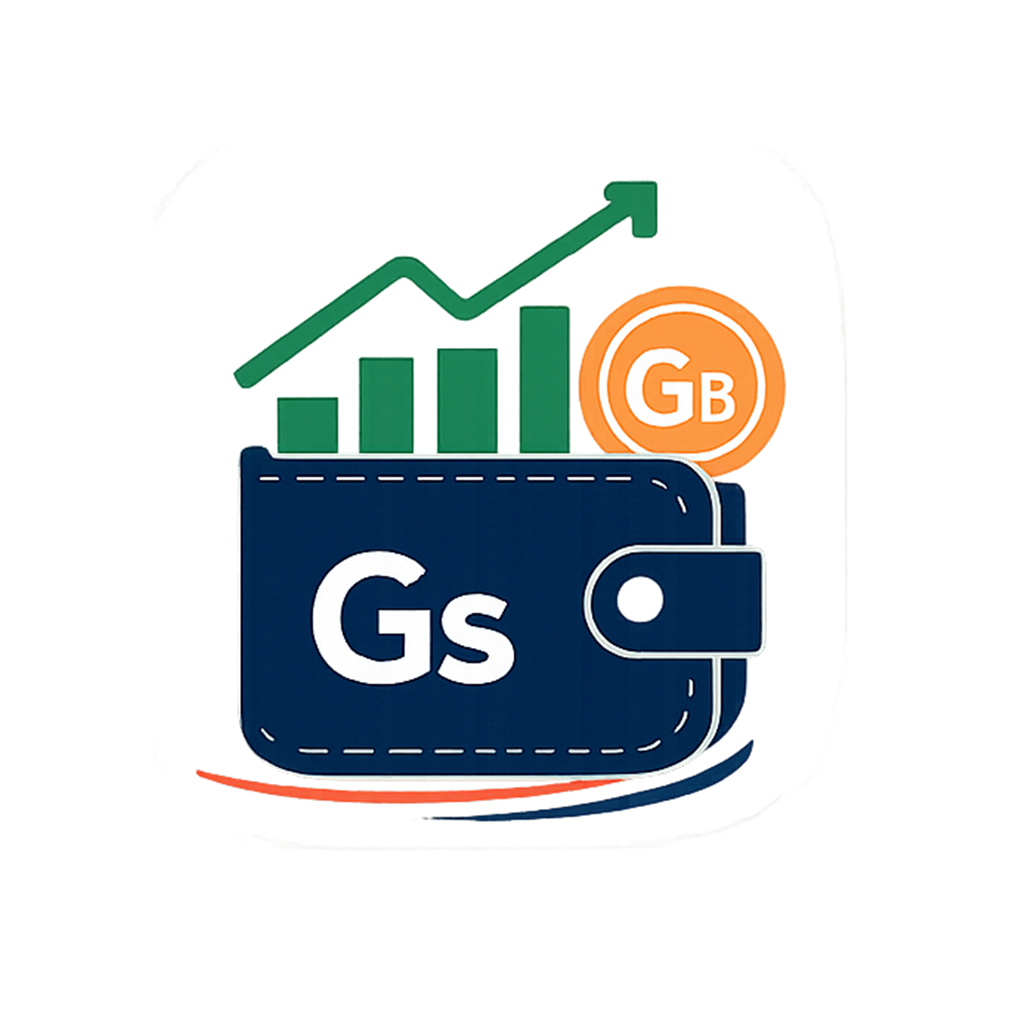
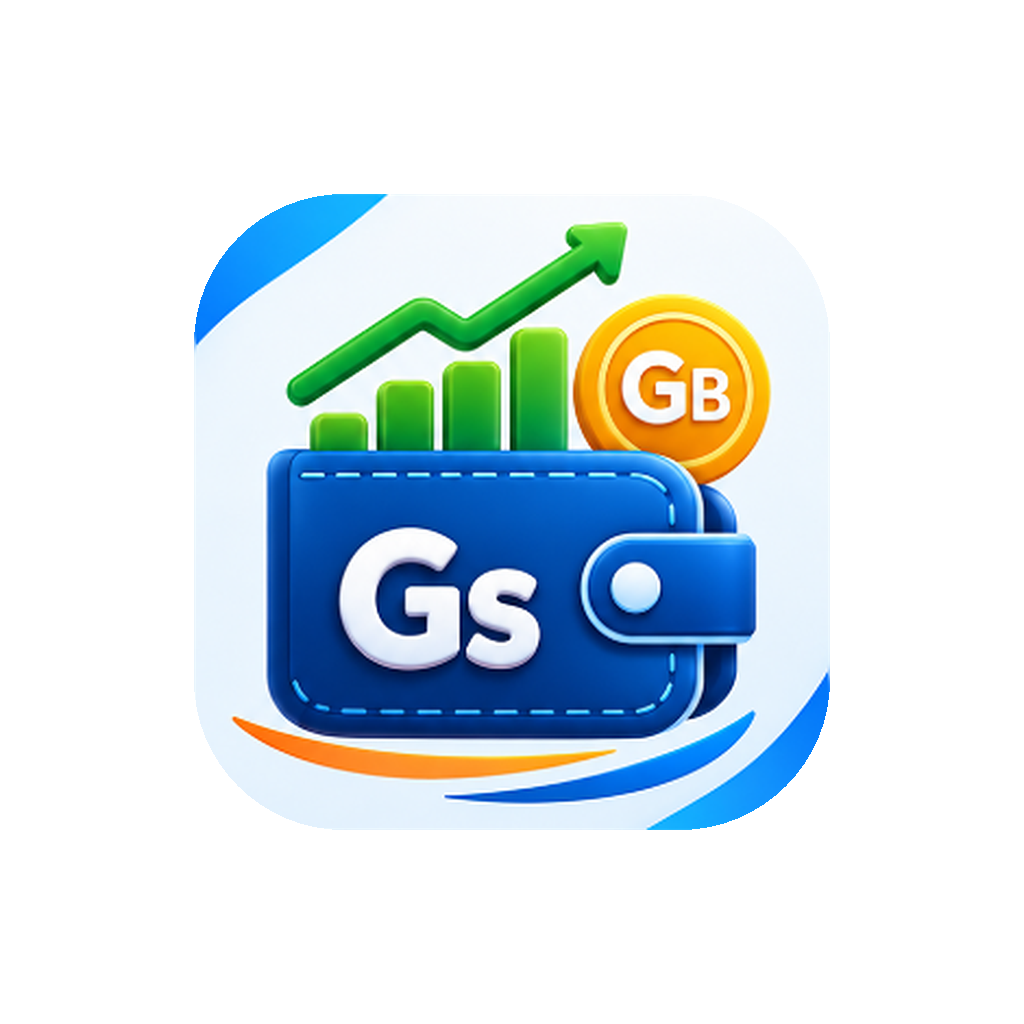
chore(privacidad): cifrado con clave precargada, avisos sin montos y assets
- Precarga la clave de cifrado y migra campos al arrancar.
- Las notificaciones de movimientos ya no exponen descripcion ni monto.
- Splash transparente con variante oscura, iconos y favicon actualizados.

Changed region(s): [[0.1875, 0.1562, 0.8125, 0.8125], [0.1875, 0.1875, 0.375, 0.3438]]

diff --git a/__tests__/encryption.test.ts b/__tests__/encryption.test.ts
@@ -80,4 +80,45 @@ describe('encryption', () => {
     const key = await store.getItemAsync('db_encryption_key');
     expect(key).toMatch(/^[0-9a-f]{64}$/);
   });
+
+  it('precargarClave + encriptarCampo devuelve v2 y roundtrip', async () => {
+    const { precargarClave, encriptarCampo, desencriptarCampo } = await cargar(KEY_A);
+    await precargarClave();
+    const c = encriptarCampo('mensaje sensible del chat');
+    expect(c!.startsWith('v2:')).toBe(true);
+    expect(c).not.toContain('mensaje sensible');
+    expect(desencriptarCampo(c)).toBe('mensaje sensible del chat');
+  });
+
+  it('encriptarCampo(null) y encriptarCampo("") pasan sin cifrar; desencriptarCampo(null) igual', async () => {
+    const { precargarClave, encriptarCampo, desencriptarCampo } = await cargar(KEY_A);
+    await precargarClave();
+    expect(encriptarCampo(null)).toBeNull();
+    expect(encriptarCampo('')).toBe('');
+    expect(desencriptarCampo(null)).toBeNull();
+  });
+
+  it('desencriptarCampo devuelve texto plano legacy (sin v2) tal cual', async () => {
+    const { precargarClave, desencriptarCampo } = await cargar(KEY_A);
+    await precargarClave();
+    expect(desencriptarCampo('texto viejo sin cifrar')).toBe('texto viejo sin cifrar');
+  });
+
+  it('encriptarCampo sin precargarClave lanza Clave no precargada', async () => {
+    const { encriptarCampo } = await cargar(KEY_A);
+    expect(() => encriptarCampo('x')).toThrow('Clave no precargada');
+  });
+
+  it('desencriptarCampo sin precargarClave devuelve legacy y falla solo con payload v2', async () => {
+    const { desencriptarCampo } = await cargar(KEY_A);
+    expect(desencriptarCampo('plano')).toBe('plano');
+    expect(() => desencriptarCampo('v2:AAAA')).toThrow('Clave no precargada');
+  });
+
+  it('getKey via encrypt tambien deja la clave disponible para encriptarCampo', async () => {
+    const { encrypt, encriptarCampo, desencriptarCampo } = await cargar(KEY_A);
+    await encrypt('calienta la clave');
+    const c = encriptarCampo('sin precargarClave explicito');
+    expect(desencriptarCampo(c)).toBe('sin precargarClave explicito');
+  });
 });

diff --git a/services/encryption.ts b/services/encryption.ts
@@ -60,13 +60,20 @@ function hexToUint8Array(hex: string): Uint8Array {
 }
 
 let keyPromise: Promise<string> | null = null;
+let claveHexCache: string | null = null;
 
 function getKey(): Promise<string> {
   if (!keyPromise) {
-    keyPromise = getOrCreateKey().catch(e => {
-      keyPromise = null;
-      throw e;
-    });
+    keyPromise = getOrCreateKey()
+      .then(key => {
+        claveHexCache = key;
+        return key;
+      })
+      .catch(e => {
+        keyPromise = null;
+        claveHexCache = null;
+        throw e;
+      });
   }
   return keyPromise;
 }
@@ -127,4 +134,21 @@ export async function decrypt(encoded: string | null): Promise<string | null> {
     return aesDecode(encoded.slice(V2_PREFIX.length), key);
   }
   return decodeLegacy(encoded, key);
+}
+
+export async function precargarClave(): Promise<void> {
+  await getKey();
+}
+
+export function encriptarCampo(text: string | null): string | null {
+  if (!text) return text;
+  if (!claveHexCache) throw new Error('Clave no precargada');
+  return V2_PREFIX + aesEncode(text, claveHexCache);
+}
+
+export function desencriptarCampo(encoded: string | null): string | null {
+  if (!encoded) return encoded;
+  if (!encoded.startsWith(V2_PREFIX)) return encoded;
+  if (!claveHexCache) throw new Error('Clave no precargada');
+  return aesDecode(encoded.slice(V2_PREFIX.length), claveHexCache);
 }

diff --git a/services/notificationService.ts b/services/notificationService.ts
@@ -104,7 +104,7 @@ export async function iniciarEscuchaNotificaciones(
         await Notifications.scheduleNotificationAsync({
           content: {
             title: 'Nuevo movimiento registrado',
-            body: `${desc} — ${montoStr}`,
+            body: 'Abrí la app para verlo.',
             data: { screen: 'notificaciones' },
             sound: true,
           },

diff --git a/services/smsService.ts b/services/smsService.ts
@@ -121,7 +121,7 @@ export function iniciarEscuchaSMS(
           await Notifications.scheduleNotificationAsync({
             content: {
               title: 'Nuevo movimiento registrado',
-              body: `${desc} — ${montoStr}`,
+              body: 'Abrí la app para verlo.',
               data: { screen: 'notificaciones' },
               sound: true,
             },
